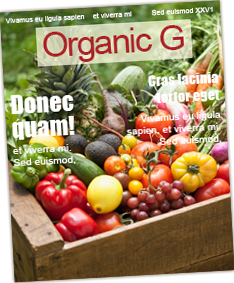
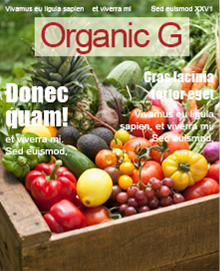
font hasn't been fixed

diff --git a/homepage.html b/homepage.html
@@ -4,7 +4,7 @@
 <html lang="en" class="no-js">
 	<!--<![endif]-->
 	<head>
-
+		<meta charset="utf-8">
 		<title>Organic Vegetable Gardening | Home page</title>
 		<meta name="description" content="">
 		<meta name="keywords" content="">
@@ -26,7 +26,7 @@
 	<body id="homepage">
 		<div id="wrapper">
 			<header id="header">
-				<h1><a href="homepage.html" class="logo" title="Organic Vegetable Gardening"><img src="img/logo.png"/></a></h1>
+				<h1><a href="homepage.html" class="logo" title="Organic Vegetable Gardening"><img src="img/logo.png" alt="Organic Vegetable Gardening"/></a></h1>
 				<nav class="nav">
 					<a href="homepage.html" class="active" title="Home">Home</a>
 					<a href="#" title="Organic Gardening">Organic Gardening</a>
@@ -44,9 +44,9 @@
 					<section class="section noBorderLeft">
 						<h2 class="heading"><a href="#" title="Organic Gardening">ORGANIC GARDENING</a></h2>
 						<div class="content">
-							<img src="img/postitem-img1.jpg">
+							<img src="img/postitem-img1.jpg" alt="Organic Gardening">
 							<h3 class="subheading">Duis lacus dolor lobortis vel ultricies vitae</h3>
-							<p class="justify">This website template has been designed by <a href="//freewebsitetemplates.com" title="freewebsitetemplates.com">freewebsitetemplates.com</a> for you, for free. You can replace all this text with your own text. You can remove any link to our website from this website template, you're free to use this website template without linking back to us.</p>
+							<p>This website template has been designed by <a href="http://freewebsitetemplates.com" title="freewebsitetemplates.com">freewebsitetemplates.com</a> for you, for free. You can replace all this text with your own text. You can remove any link to our website from this website template, you're free to use this website template without linking back to us.</p>
 						</div>
 						<p class="button-wrapper"><span class="button"><a href="#" title="Read More">Read more</a></span></p>
 					</section>
@@ -54,9 +54,9 @@
 					<section class="section">
 						<h2 class="heading"><a href="#" title="Gardening Tips &amp; Useful Links">Gardening Tips &amp; Useful Links</a></h2>
 						<div class="content">
-							<img src="img/postitem-img2.jpg">
+							<img src="img/postitem-img2.jpg" alt="Gardening Tips &amp; Useful Links">
 							<h3 class="subheading">Vestibulum ut nisl nec massa interdum tincidunt</h3>
-							<p class="justify">Lorem ipsum dolor sit amet, consectetur adipiscing elit. Mauris aliquet interdum diam, vitae tristique diam feugiat id. If you're having problems editing this website template, then don't hesitate to ask for help on the <a href="//freewebsitetemplates.com/forum" title="freewebsitetemplates.com forum">freewebsitetemplates.com/forum</a>.</p>
+							<p>Lorem ipsum dolor sit amet, consectetur adipiscing elit. Mauris aliquet interdum diam, vitae tristique diam feugiat id. If you're having problems editing this website template, then don't hesitate to ask for help on the <a href="http://freewebsitetemplates.com/forum" title="freewebsitetemplates.com forum">freewebsitetemplates.com/forum</a>.</p>
 						</div>
 						<p class="button-wrapper"><span class="button"><a href="#" title="Read more">Read more</a></span></p>
 					</section>
@@ -64,8 +64,8 @@
 					<section class="section noBorderRight">
 						<h2 class="heading"><a href="#" title="Vegetable Garden Gallery">VEGETABLE GARDEN GALLERY</a></h2>
 						<div class="content">
-							<img src="img/postitem-img3.jpg">
-							<img src="img/postitem-img4.jpg">
+							<img src="img/postitem-img3.jpg" alt="Vegetable garden Gallery">
+							<img src="img/postitem-img4.jpg" alt="Vegetable garden Gallery">
 						</div>
 						<p class="button-wrapper"><span class="button"><a href="#" title="View Gallery">View Gallery</a></span></p>
 					</section>
@@ -78,7 +78,7 @@
 						<div class="inner">
 							<div class="content">
 								<p>Fusce interdum vestibulum lacus, sagittis sagittis mauris </p>
-								<img class="cornerImg" src="img/organicG.png">
+								<img class="cornerImg" src="img/organicG.png" alt="Magazine &amp; Books">
 							</div>
 						</div>
 					</section>
@@ -88,7 +88,7 @@
 						<div class="inner">
 							<div class="content">
 								<strong>Donec a quam quis est</strong>
-								<img class="galeryImg" src="img/aside-img.jpg">
+								<img class="galeryImg" src="img/aside-img.jpg" alt="Gallery">
 								<p>Nam eu tellus a sem laoreet vel pulvinarid nisi at risus sit</p>
 								<p class="author">by: Lizah </p>
 							</div>
@@ -141,7 +141,7 @@
 
 			<footer id="footer">
 				<div class="inner">
-					<p class="leftBox">Join us on <a href="//facebook.com" title="Facebook">Facebook</a> &amp; <a href="//twitter.com" title="Twitter">Twitter</a></p>
+					<p class="leftBox">Join us on <a href="http://facebook.com" title="Facebook">Facebook</a> &amp; <a href="http://twitter.com" title="Twitter">Twitter</a></p>
 					<p class="copyright">Copyright &copy; 2012. All right reserved.</p>
 				</div>
 			</footer>

diff --git a/css/structure.css b/css/structure.css
@@ -33,10 +33,8 @@ pre, code, kbd, samp {
 	1-2. Headline styles
 -------------------------------------------------------------------*/
 .heading {
-	padding: 0px 15px;
 	font: bold 2em/1.5 "Times New Roman";
 	color: #164773;
-	text-align: center;
 	text-shadow: 0px 1px white;
 	text-transform: uppercase;
 }
@@ -51,13 +49,13 @@ pre, code, kbd, samp {
 .subheading{
 	font: bold 1.2em/1.7 "Times New Roman";
 	color: #423319;
-	text-align: justify;
 	text-transform: uppercase;
 }
 
 .heading-aside{
-	padding: 10px 5px;
 	font: bold 1.4em "Times New Roman";
+	padding-left: 10px;
+	padding-bottom: 5px;
 	color: #164773;
 	text-shadow: none;
 }
@@ -119,28 +117,30 @@ pre, code, kbd, samp {
 	padding-top: 50px;
 	text-align: center;
 }
-
+.logo img{
+	max-width: 100%;
+}
 /* ------------------------------------------------------------------
 	2-3. Navi styles
 -------------------------------------------------------------------*/
 .nav{
-	padding: 10px 0;
+	padding: 1em 0;
 	text-align: center;
 }
 .nav a{
 	display: inline-block;
-	margin: 10px;
-	padding: 10px;
+	margin: 1em;
+	padding: 1em;
 	color: #164773;
 	text-decoration: none;
 	border: 1px solid white;
 	background-color: #faf4e8;
 	box-shadow: 1px 1px 3px #c2b79f;
-	-webkit-transition: 1s ease;
-	   -moz-transition: 1s ease;
-	    -ms-transition: 1s ease;
-	     -o-transition: 1s ease;
-	        transition: 1s ease;
+	-webkit-transition: 0.3s ease;
+	   -moz-transition: 0.3s ease;
+	    -ms-transition: 0.3s ease;
+	     -o-transition: 0.3s ease;
+	        transition: 0.3s ease;
 }
 .nav a:hover, .nav .active{
 	color: white;
@@ -157,12 +157,13 @@ pre, code, kbd, samp {
 	background: url('../img/bg-header-x1.png') repeat-x, url('../img/hoavan-1.png') no-repeat top center;
 }
 #container{
-	width: 960px;
+	max-width: 960px;
 	margin: 0 auto;
 }
 #main{
 	padding: 1px 0 30px 0;
 	overflow: hidden;
+	min-height: 700px;
 	background: url(../img/bg-main.png) repeat;
 	box-shadow: 0 0 3px #c2b79f;
 }
@@ -172,16 +173,20 @@ pre, code, kbd, samp {
 -------------------------------------------------------------------*/
 #aside{
 	overflow: hidden;
-	margin: 20px auto;
+	padding: 20px 0;
 }
 .section1{
-	width: 22.89%;
+	width: 25%;
 	float: left;
-	margin: 10px;
+	padding: 10px;
+	box-sizing: border-box;
+	-moz-box-sizing: border-box;
+	-webkit-box-sizing: border-box;
+	-o-box-sizing: border-box;
 }
 .section1 .inner{
 	position: relative;
-	min-height: 270px;
+	height: 270px;
 	padding: 10px;
 	text-shadow: 0px 1px white;
 	color: #91846f;
@@ -193,23 +198,28 @@ pre, code, kbd, samp {
 	color: #7c6b4f;
 }
 .section1 .inner p{
-	line-height: 20px;
+	line-height: 1.4em;
 }
 
 .cornerImg{
-	position: absolute;
+	position: relative;
 	left: -30px;
-	bottom: -50px;
+	bottom: -20px;
+	-webkit-transform: rotate(-5deg);
+	   -moz-transform: rotate(-5deg);
+	    -ms-transform: rotate(-5deg);
+	     -o-transform: rotate(-5deg);
+	        transform: rotate(-5deg);
 }
 
 .galeryImg{
-	width: 198px;
+	max-width: 100%;
 	height: 133px;
 	border: 1px solid #e1d8c4;
 	margin: 10px auto;
 }
 .author{
-	font-size: 12px;
+	font-size: 0.85em;
 	font-style: italic;
 }
 
@@ -224,18 +234,20 @@ pre, code, kbd, samp {
 }
 .supplier-list dt{
 	font-weight: bold;
-	line-height: 1.75em;
+	line-height: 1.5em;
 	color: #7c6b4f;
 }
-.supplier-list dd{
-	font-size:12px;
-	line-height:24px;
+.supplier-list dd {
+	padding-bottom: 10px;
+	font-size: 0.85em;
+	line-height: 1.7em;
 }
 .supplier-list dd span{
-	font-size: 14px;
+	display: block;
+	font-size: 1.3em;
 }
 .info-text{
-	margin-bottom: 1.8em;
+	padding-bottom: 20px;
 }
 .info-text p{
 	line-height: 1.75em;
@@ -248,13 +260,14 @@ pre, code, kbd, samp {
 	2-6. Footer styles
 -------------------------------------------------------------------*/
 #footer{
-	line-height: 100px;
+	font-family: "Times New Roman";
+	line-height: 7em;
 	color: #9a8e79;
 	background: url('../img/bg-footer-x.png') repeat-x;
 	overflow: hidden;
 }
 #footer .inner{
-	width: 961px;
+	max-width: 960px;
 	margin: 0px auto;
 }
 .leftBox a{

diff --git a/css/style.css b/css/style.css
@@ -5,9 +5,13 @@
 .section{
 	position: relative;
 	float:left;
-	width: 33%;
+	width: 33.33%;
 	min-height: 670px;
 	padding: 20px 0px;
+	box-sizing: border-box;
+	-moz-box-sizing: border-box;
+	-webkit-box-sizing: border-box;
+	-o-box-sizing: border-box;
 	border-left: 1px solid white;
 	border-right: 1px solid #cec4b0;
 }
@@ -17,12 +21,16 @@
 .noBorderRight{
 	border-right: none;
 }
+.section .heading{
+	padding: 0px 15px;
+	text-align: center;
+}
 .section .content{
-	margin: 10px 20px;
+	padding: 10px 20px;
 	text-align: justify;
 }
 .section .content img{
-	width: 100%;
+	max-width: 100%;
 	margin-bottom: 1.5em;
 	box-shadow: 0px 0px 3px #cec4b0;
 }
@@ -31,3 +39,7 @@
 	line-height: 24px;
 	color: #7c6b4f;
 }
+/**********************************************************************
+	-- organic-gardening--
+**********************************************************************/
+@import "organic-gardening.css";
